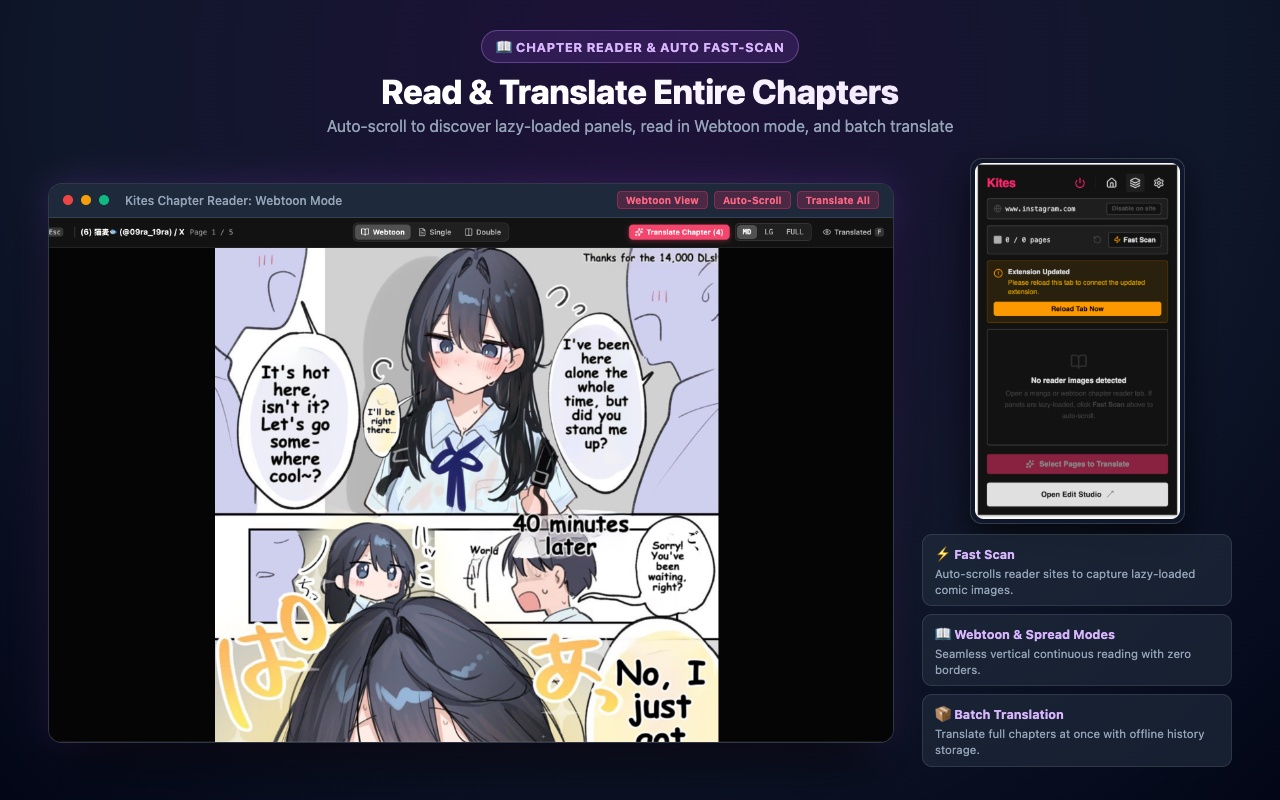
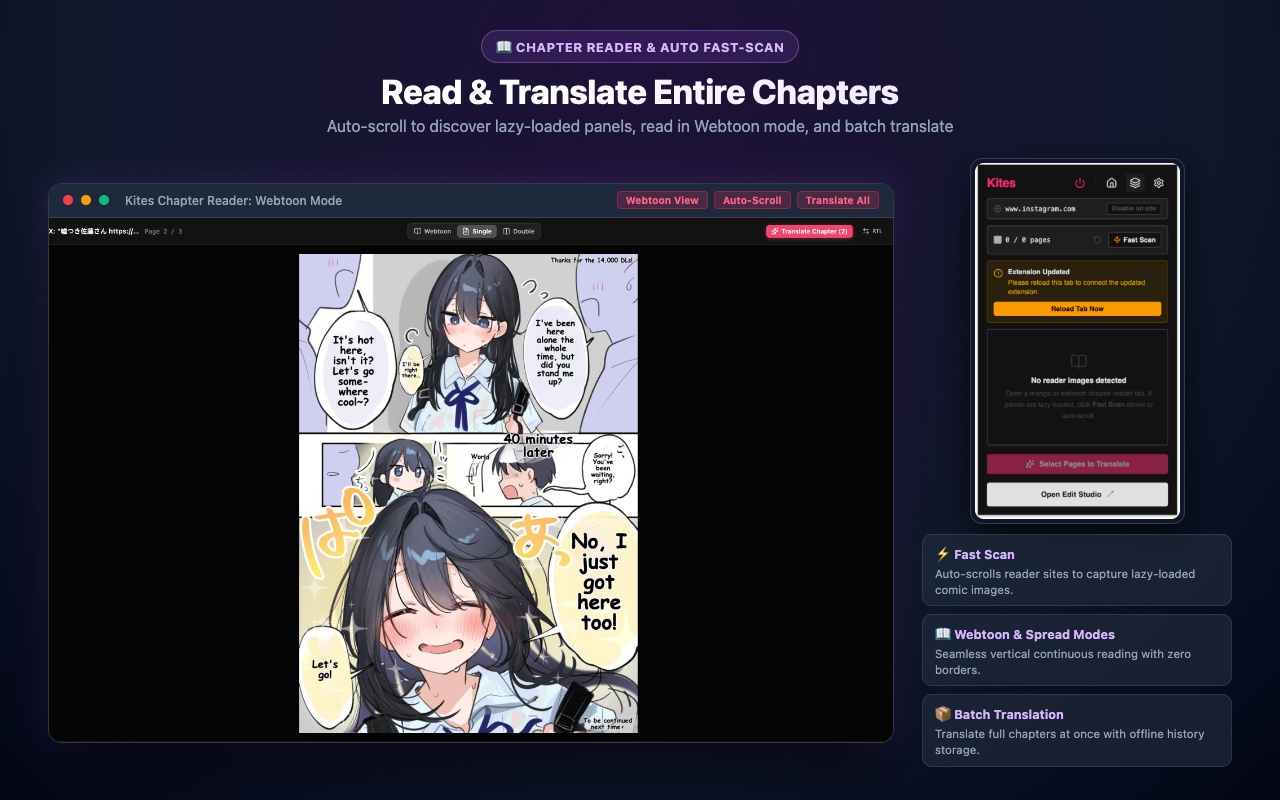
docs: replace legacy reader assets with new reader screenshot across README, site, and Chrome store

Changed region(s): [[0.0312, 0.2812, 0.6875, 0.9375]]

diff --git a/README.md b/README.md
@@ -112,7 +112,7 @@ Hover over any comic panel on Twitter/X, Pixiv, or manga sites. An unobtrusive f
 
 Read entire manga or webtoon chapters in one distraction-free view with automatic batch detection, continuous vertical webtoon mode, multi-page translation, and offline ZIP export:
 
-[![Kites Chapter Reader](./README_images/UI-feature/chapter-reader.jpg)](./README_images/UI-feature/chapter-reader.png)
+[![Kites Chapter Reader](./README_images/UI-feature/reader.jpg)](./README_images/UI-feature/reader.png)
 
 - **Fast Scan:** Automatically auto-scrolls and queues all lazy-loaded manga panels across chapter pages.
 - **Flexible Reader Modes:** Seamlessly switch between Webtoon continuous vertical strips, Single page, and Double spread layouts.
